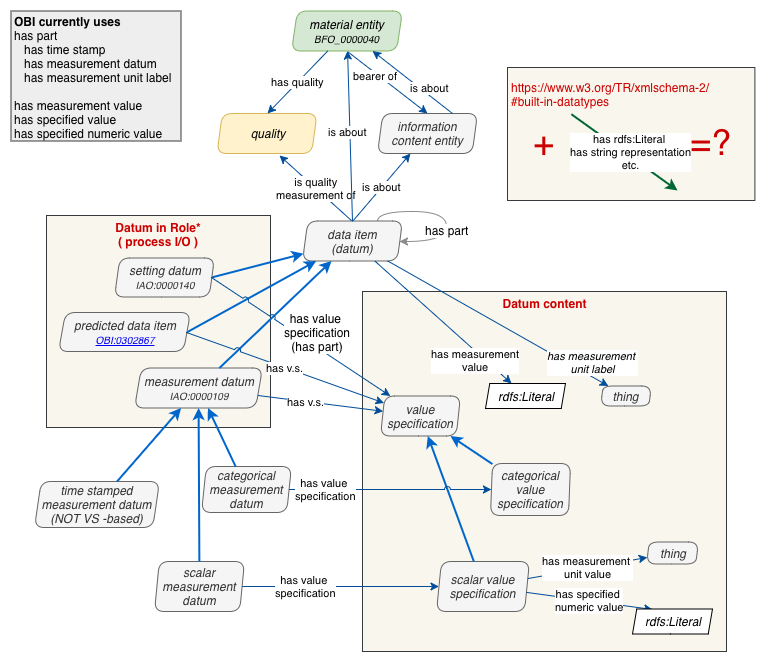
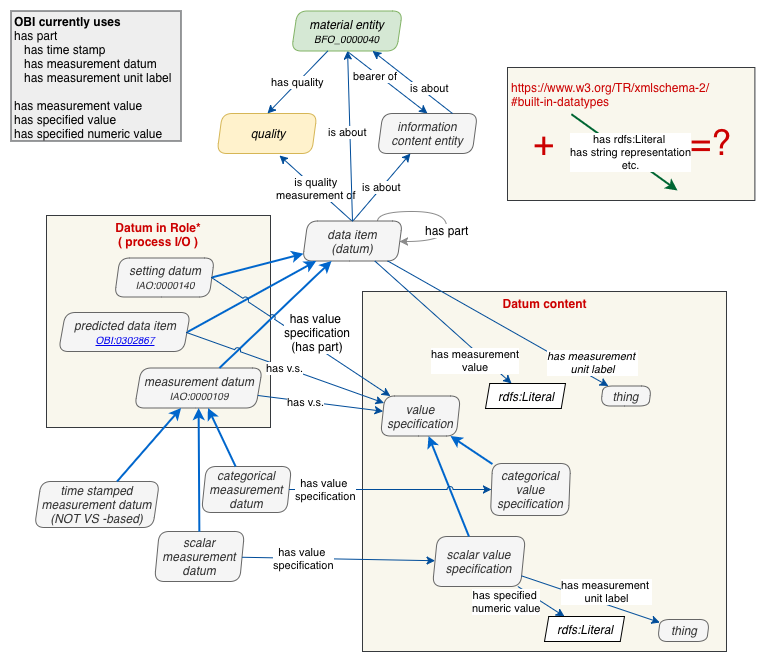
edits

diff --git a/_pages/docs/data-properties.md b/_pages/docs/data-properties.md
@@ -12,51 +12,55 @@ Diagrammed on the left side are typical examples of field data related to a rese
 
 <img align="right" src="/assets/images/docs/data_raw.png">
 
-A given datum value from the left may match one of four scenarios, the first two involving a single data property, and the latter two involving a multi-component "value specification" representation:
+A given datum value from the left may match one of four scenarios, the first two involving a data properties directly, and the latter two involving a multi-component "value specification" representation as described below.
 
-#### OWL RDF/XML datatype compatible
+### OWL datum - data property compatible
 
-OBI can generally express rdf/xml datatype values associated with ICE enties using a triple in the form "[ICE] `has xsd:Literal value` [value]".  This is suited to unit-less quantities, and covers common OWL-compatible [XML datatype schema](https://www.w3.org/TR/xmlschema-2/#built-in-datatypes) options, which can be further divided into:
+OBI can attach a number of [`OWL-compatible RDF/XML datatype`](https://www.w3.org/2007/OWL/wiki/DatatypeRescue) values directly to `atomic` ICE datums using a `has xsd:Literal value` data property or one of its sub-properties, as described below. (Representation of [`rational`](https://www.w3.org/2007/OWL/wiki/OWL_Rational) numbers is a bit more tricky.)
 
-- `has owl:real value` for a datum whose textual content represents a number that is unit-less.  Has owl:real range.
-   - `has xsd:decimal value` subclass for unit-less decimal values.
-   - `has xsd:integer value` subclass for counts and other unit-less integers.
+#### Scalar datum
 
+- `has xsd:float value` data property for storing floating point decimal values.  Has xsd:float range.
+- `has xsd:decimal value` data property for storing decimal values.  Has xsd:decimal range.
+  - `has xsd:integer value` data property for storing counts and other integers, e.g. a pH measurement.  Has xsd:integer range.
 
-- `has xsd:anyURI value` for a datum which contains a URI pointing to a document or other type of resource file.  Has xsd:anyURI range.  Example: an ICE [`analytical cytology data file`](http://purl.obolibrary.org/obo/OBI_0000210) specification ["https://onlinelibrary.wiley.com/doi/epdf/10.1002/cyto.990110303"](https://onlinelibrary.wiley.com/doi/epdf/10.1002/cyto.990110303)
+- `has xsd:dateTime value` or `has xsd:dateTimeStamp value` (includes time zone)for a datum containing a xsd:dateTime formatted date or time. Has xsd:dateTime or xsd:dateTimeStamp range, respectively. Examples of use are in the [`Time stamped data`](/docs/time-stamped-data/) section
 
-- `has xsd:dateTime value` for a datum containing a xsd:dateTime formatted date or time. Has xsd:dateTime range.
-- Similarly, a `has xsd:dateTimeStamp value` for a date or time that includes a time zone.
+If a numeric or datetime value needs a unit associated with it (e.g. metre, kilogram, hour, minute) the [`has measurement unit label`(http://purl.obolibrary.org/obo/IAO_0000039) object property can be used to point to a unit entity.  For example, the strings "20g", "20 grams", and "0.02kg" may differ by string comparison, but can be translated into identical value + unit atomic components: a decimal 20.0 and a "gram" mass unit.
+
+#### Boolean datum
 
 - `has xsd:boolean value` for a datum which is represented as a yes/no or true/false value. Has xsd:boolean range.
 
-#### String representation compatible 
+#### String (symbol????) datum
 
-A datum value that has linguistically or computationally coded textual content can be indicated by OBI's `has xsd:string representation` data property which has a xsd:string range.  It can hold "undigested" data, say, in preparation for parsing by SPARQL etc. into more atomic components.  Other object relations may be provided to enable interpretation of string representation datum values. It can store values that may or may not fit directly on a numeric or categorical scale, as well as linguistic content (words, phrases, sentences with optional OWL language facet.  It may be an identifier which can be compared with other values for a match.  For example:
+- `has xsd:string value` for a textual datum that does not fit on a categorical scale but which can be compared (like a token) to other strings.  Example: The (fictitious) [Social Security Number](http://purl.obolibrary.org/obo/NCIT_C25686) "000-11-2222", an identifier which is not really on a scale or a categorical value.  It is essentially atomic; it serves a data matchmaking role.
 
-- The address "16500 Mullholland Dr., Los Angeles, CA, USA" needs parsing to extract house/apartment number, street, city, country, etc.
+#### Other resource datum
 
-- The fictitious Social Security Number "000-11-2222", an identifier which is not really on a scale or a categorical value. It is essentially atomic; it serves a data matchmaking role.
+- `has xsd:anyURI value` for a datum which contains a URI pointing to a document or other type of resource file.  Has xsd:anyURI range.  Example: an ICE [`analytical cytology data file`](http://purl.obolibrary.org/obo/OBI_0000210) specification ["https://onlinelibrary.wiley.com/doi/epdf/10.1002/cyto.990110303"](https://onlinelibrary.wiley.com/doi/epdf/10.1002/cyto.990110303)
 
-- "20g" may be held as a string representation en route to becoming a value specification.
+### String representation compatible
 
-Such data could technically be stored as annotations but the potential for referencing it as input our output of process axioms is then lost.
+A datum can have a linguistically or computationally coded textual value using OBI's `has xsd:string representation` data property.  A string representation value can hold "undigested" data, say, in preparation for parsing by SPARQL etc. into more atomic components.  Other object relations may be provided to enable interpretation of such values. It can store values that may or may not fit directly on a numeric or categorical scale, as well as linguistic content (words, phrases, sentences with an optional OWL language facet.  For example:
 
-#### Scalar Value specification compatible
+- The address "16500 Mullholland Dr., Los Angeles, CA, USA" can be attached to a [`street address`](http://purl.obolibrary.org/obo/NCIT_C25690) datum. The value needs parsing to extract house/apartment number, street, city, country, etc.
 
-A value that can be placed on a numeric scale which includes a unit. In this case a [`scalar value specification`](http://purl.obolibrary.org/obo/OBI_0001931) instance can be set up for it (see [docs/data-vs](docs/data-vs)). For example:
+- "20g" may be held as a string representation en route to becoming a scalar value + unit data property pair or a [`scalar value specification`](/docs/data-vs/).
 
-- The strings "20g", "20 grams", and "0.02kg" may differ by string comparison, but can be translated into an equivalent or identical RDF triple store value + unit using OWL ontology vocabulary. All variants can be translated into atomic components: a decimal 20.0 and a "gram" mass unit. 
+Such data could technically be stored as annotations but the potential for referencing it as input our output of process axioms (e.g. in natural language processing) is then lost.
 
-- A duration of 20 days.
+### Scalar value specification compatible
 
-#### Categorical value specification compatible
+OBI implementers may prefer to isolate the value data collected from assays from the `measurement datum` representation level of assay output.  OBI provides a `has value specification` object property that points to a [`scalar value specification`](http://purl.obolibrary.org/obo/OBI_0001931) which can take on the same value and measurement unit label data and object properties as described in the Scalar datum section above.  See [docs/data-vs](docs/data-vs) for more details.
 
-A [`categorical value specification`](http://purl.obolibrary.org/obo/OBI_0001930) describes a categorical variable like color, which can match selections from a string list of terms, or from a branch of ontology terms (e.g. terms from a standardized color wheel). (Inputted synonyms can be handled too, e.g. "sienna, sepia, umber, terra cotta" -> "brown")
+### Categorical value specification compatible
 
-## Data Property Implementation Approaches
+A [`categorical value specification`](http://purl.obolibrary.org/obo/OBI_0001930) describes a categorical variable like color, which can match selections from a string list of terms, or from a branch of ontology terms (e.g. terms from a standardized color wheel). (Inputted synonyms can be handled too, e.g. "sienna, sepia, umber, terra cotta" -> "brown").  See [docs/data-vs](docs/data-vs) for more details.
 
-Before we detail the use of `has rdfs:Literal value` etc. and `has specified value` data properties, we will discuss OBI's philosophy about data properties in general. 
+## Data Property Implementation Approach
+
+Before we detail the use of `has rdfs:Literal value` etc. data properties, we will discuss OBI's philosophy about data properties in general. 
 
 <img align="right" src="/assets/images/docs/data_lee_data_property_age.png">
 
@@ -74,19 +78,30 @@ The label of the data property tells humans in hopefully plain language what the
 
 In fact there are many kinds of [`ages`](http://purl.obolibrary.org/obo/OBI_0001167) in the biomedical and biological research realm; a number of related datums from OBI are listed here. Rather than creating a litany of data properties, OBI has chosen an alternative approach - a data modelling vocabulary that focuses on describing a core entity's role, quality, information content and other descriptive components rather than directly connecting semantically opaque data properties. This is not to say non-OBI `data properties` are forbidden in application ontologies - but going through the exercise of defining them in terms of a generic BFO/OBI/OBO Foundry set of terms may help anticipate data sharing issues.
 
-Below is an example focusing on providing values for information content entities typically connected to a person instance.
+OBI allows an age datum instance's value and unit to be represented by way of `has xsd:decimal value` and `has measurement unit label`:
+
+<img src="/assets/images/docs/data_lee_object_property_age_unit.png">
+
+Stating units is especially important for enabling data exchange unambiguously - units associated with a data property that may work internally to a system, but are likely to fail when exchanging information with other systems. OBI provides a [`has measurement unit label`](http://purl.obolibrary.org/obo/IAO_0000039) object property for this reason.  In the diagram below, other types of age measurements are described. The need for units is evident:
+
+<img src="/assets/images/docs/data_lee_object_property_ages.png">
+
+To summarize, rather than establish a `has age` data property, OBI expresses that [`age`](http://purl.obolibrary.org/obo/PATO_0000011) is a quality of our entity, and then focuses on defining the semantics of it and its subclasses.  This approach reduces the amount of language needed to describe entities, at the cost of a bit more structure. *Most importantly it enables entities to be the focus of semantic elaboration (axioms) rather than being surrounded by opaque relations.* The `aboutness` details have the extra benefit of facilitating appropriate data exchange between ontology-driven systems.  By specifying that a string field is about a first name or a last name, maiden name, full name, SIN number, postal code, etc. this 'aboutness' information can guide the merging and federated querying of triple store graphs.   
+
+Below is another example focusing on providing values for information content entities typically connected to a person instance.
 
 <img src="/assets/images/docs/data_lee_has_specified_value.png">
 
-OBI uses data properties in a limited way, via `has [xml/rdf/owl datatype] value`, [`has specified value`](http://purl.obolibrary.org/obo/OBI_0002135), and [`has specified numeric value`](http://purl.obolibrary.org/obo/OBI_0001937), and relies on the subject of the relation to provide `aboutness` semantics.  This approach reduces the amount of language needed to describe entities, at the cost of a bit more structure. *Most importantly it enables entities to be the focus of semantic elaboration (axioms) rather than being surrounded by opaque relations.* The `aboutness` details have the extra benefit of facilitating appropriate data exchange between ontology-driven systems.  By specifying that a string field is about a first name or a last name, maiden name, full name, SIN number, postal code, etc. this 'aboutness' information can guide the merging and federated querying of triple store graphs.
+And here is a pH measurement example, showing the datum as an output of a process, and also with a unit (which some may argue is optional because there is only one unit possible):
+\
+<img src="/assets/images/docs/data_ph_object_property.png">
+
 
 ## Missing values
 
 Data sources may mark missing values in a variety of ways - by an empty string, or a hyphen instead of a number or date for example.  Instance subject-verb-object triples don't have an equivalent way to express this. However there are a few ways one could indicate missing values.
 
-- An entity's object property lacks a `has specified value` relation where one is expected.
-
-- For an instance value being described by a `categorical value specification` (CVS) class, if that value matches the CVS class's expressed  `specifies value of` target, then no choice has been made, and no information is carried.
+- A datum instance lacks a `has rdfs:Literal value` data property or subproperty where one is indicated in the datum class.
 
 ## Suitable object properties
 
@@ -100,26 +115,18 @@ It is straightforward to see a material entity connected to a pertinent quality 
 
 One can also use cardinality to specify more than one data property is allowed or required. However, some OWL reasoning profiles don't work with cardinality.
 
-Now, back to the age example, it seems we could supply various age measurements like so:
+## Data property limitations
 
-<img src="/assets/images/docs/data_lee_object_property_ages.png">
-
-To summarize, rather than establish a `has age` data property, OBI expresses that [`age`](http://purl.obolibrary.org/obo/PATO_0000011) is a quality of our entity, and then focuses on defining the semantics of it and its subclasses.  
-
-However, there are some limitations of data properties that this diagram and the one below expose.
+Besides the need to specify measurement units, there are a few other limitations of coupling data properties too tightly to the entities they describe.
 
 <img align="right" src="/assets/images/docs/data_lee_data_properties.png">
 
-- A data property can't include a unit directly, so a second data property is needed for that.  Is Lee a 12 year old youth, or a 12 month old toddler?  We need the **unit of measure**, in minutes, days, months, or years.  In the example diagram of Lee's data properties to right, is the `has weight` decimal value given in kilos or grams? Is height in meters or centimetres? Without an explicit unit, assumptions are made about units associated with a data property that may work internally to a system, but are likely to fail when exchanging information with other systems.
+- A data property doesn't directly support a relevant time of measurement value.  For example, when was Lee's `has height` observed, and was it the same time as `has weight`, such that an accurate BMI can be calculated?  Admittedly, time differentiated data is rather complex to model in OWL. A pragmatic approach, if workable, is to only expose to an OWL reasoner data that doesn't need to be differentiated by time. In the BMI example, we could assume height and weight data properties are adequately close in time that derivative calculations are ok. OBI does offer annother approach detailed in the [`Time-stamped data`](/docs/time-stamped-datums) section to describe n-dimensional points that include time.
 
-- A data property doesn't support a relevant time of measurement value.  For example, when was Lee's `has height` observed, and was it the same time as `has weight`, such that an accurate BMI can be calculated?  Admittedly, time differentiated data is rather complex to model in OWL. A pragmatic approach, if workable, is to only expose to an OWL reasoner data that doesn't need to be differentiated by time. In the BMI example, we could assume height and weight data properties are adequately close in time that derivative calculations are ok. OBI does offer annother approach detailed in the `Time-stamped data` section to describe n-dimensional points that include time.
+- A data property cannot directly specify the range of ontology term choices (which are classes or individuals) for a categorical value since data property ranges can only be drawn from xml/rdf data types. "Lee `has handedness` "http://purl.obolibrary.org/obo/PATO_0002201^^xsd:anyURI"" but the URI could point to anything on the internet. We can't express in OWL that the 'has handedness' data property URI range must fall within the class of PATO `handedness`. An object property is required for this reference.
 
-- A data property cannot directly specify the range of ontology term choices (which are classes or individuals) for a categorical value since data property ranges can only be drawn from xml/rdf data types. "Lee `has handedness` "http://purl.obolibrary.org/obo/PATO_0002201^^xsd:anyURI"" but the URI could point to anything on the internet. We can't express in OWL that the 'has handedness' data property URI range must fall within the class of PATO `handedness`.
+This doesn't provide the necessary structure for describing multi-dimensional datums - time-stamped observations, or geographic lat/long location for example. To meet these needs, one either needs to use a `composite datum` or one needs an additional `value specification` entity.
 
-- There is no direct way to indicate that an instance of paricular data property has a missing value since its object must have some value.  The data property as a whole could be omitted, and this may be sufficient for querying purposes.
+## Composite datum
 
-For a numeric one dimensional datum with a unit, that is, a datum that records a single value on a scale, it is possible to represent it directly using object and data properties.  Here an age datum has unit and value directly by way of `has measurement unit label` and `has xsd:decimal value`:
-
-<img align="right" src="/assets/images/docs/data_lee_object_property_age_unit.png">
-
-This doesn't provide the necessary structure for describing categorical and mulit-dimensional datums - time-stamped observations, or geographic lat/long location for example. To meet these needs, OBI has an additional `value specification` entity, as detailed in the next section.
+...

diff --git a/_pages/docs/data-intro.md b/_pages/docs/data-intro.md
@@ -7,11 +7,11 @@ sidebar:
   nav: "docs"
 ---
 
-One of OBI's missions, to model the logical structure of experimental assays, requires a close study of entity attributes, processes and their participants, and data being collected. Below we introduce the general framework for describing processes, datums used as process input or output, and data collection specifications. Some stakeholders are involved only in process modelling in order to document study design and/or protocol details as metadata; others are turning to OBI ontology to provide standardization of data collection and exchange; software developers will require knowledge in both these areas in order to provide the next generation of integration tools. We aim to provide analysis approaches and diagrams to satisfy these needs.
+One of OBI's missions, to model the logical structure of experimental assays, requires a close study of entity attributes, processes and their input/output participants, and data collection specifications.  Some stakeholders are involved only in process modelling in order to document study design and/or protocol details as metadata; others are turning to OBI ontology to provide standardization of data collection and exchange; software developers will require knowledge in both these areas in order to provide the next generation of integration tools. We aim to provide analysis approaches and diagrams to satisfy these needs.
 
 Aligning with [BFO](http://basic-formal-ontology.org), OBI divides references about study design and assay structure into roughly four domains - **[`material entities`](http://purl.obolibrary.org/obo/BFO_0000040)**, their observable **[`qualities`](http://purl.obolibrary.org/obo/BFO_0000019)**, **[`planned processes`](http://purl.obolibrary.org/obo/OBI_0000011)**, and **[`information artifacts`](http://purl.obolibrary.org/obo/IAO_0000030)**, which all show up in process and data modelling.
 
-The following documentation sections will focus on various parts needed to detail processes and their input and output data.  The diagram below shows how OBI expresses the statement "John's mass is 70kg" using triples, and the related material entity, process, datum, quality and value specification ontology components hovering in the background.  It shows the big picture - by tracing classes further up the inheritance hierarchy, we can see the impact on instance data. Details on each of these sections follow.
+The following documentation sections will focus on various parts needed to detail processes and their input and output data.  The diagram below shows how OBI expresses the statement "John's mass is 70kg" using object and data properties, and the related material entity, process, datum, quality and value specification ontology components hovering in the background.  It shows the big picture - by tracing classes further up the inheritance hierarchy, we can see the impact on instance data. Details on each of these sections follow.
 
 <img align="right" src="/assets/images/docs/data_john_mass_context.png">
 

diff --git a/_pages/docs/data-vs.md b/_pages/docs/data-vs.md
@@ -1,21 +1,13 @@
 ---
 layout: default
-title: ""
+title: "Value Specifications"
 permalink: /docs/data-vs/
 #toc: true
 sidebar:
    nav: "docs"
 ---
 
-# Value Specifications
-
-## Question: a `has xsd:Literal value` or `has measurement value` data property can be attached directly to an instance of a quality in the case of numeric measurements, and those qualities inherently come with `has measurement unit label` abstractly set to the base SI unit of quality dimension in question, so its easy to express "length of 2m", "weight of 50kg" that way.  What motivates us to use a value spec in this case?  The theoretical distinction exists between a datum as a process input/output that should only describe its aboutness; and a value specification that specifies the measurement value's form, seems to be blown with respect to qualities about SI dimensions. Allowing datums to be associated with units would need to be dropped to enforce the distinction.**
-
-## Another way to put it: M object relations and N data properties are available to describe both aboutness and content of a datum.  One choice is to move the content related ones out to a value specification.  But the semantics of these relations are distinct even if used together on a datum, so informatically this is the simplest way.  Subclasses of datum can constrain both aboutness and content form.**
-
-<hr>
-
-The inability of [`data properties`](/docs/data_properties/) to provide units, valid categorical choices or timestamped datums has led OBI to introduce a **[`value specification`](http://purl.obolibrary.org/obo/OBI_0001933){:target="_blank"}** (VS) class which more explicitly [`specifies value of`](http://purl.obolibrary.org/obo/OBI_0001927) a quality, datum, or postcomposed expression that it is about.  There are a few different kinds of `value specification` for capturing needed details of numeric, string and categorical variables, organized in OBI by their value datatypes:
+OBI has introduced a **[`value specification`](http://purl.obolibrary.org/obo/OBI_0001933){:target="_blank"}** (VS) class which more explicitly [`specifies value of`](http://purl.obolibrary.org/obo/OBI_0001927) a quality, datum, or postcomposed expression that it is about.  A value specification can be separated from a ICE by way of a "[ICE] `has value specification` [value specification]" object property.  There are a few different kinds of `value specification` for capturing needed details of numeric, string and categorical variables, which echo the combinations possible from direct connection of a datum to data properties:
 
 <img src="/assets/images/docs/data_value_specs.png">
 

diff --git a/_pages/docs/data-types.md b/_pages/docs/data-types.md
@@ -10,6 +10,6 @@ sidebar:
 
 [//]: # (OWL-driven reasoning and SPARQL querying can be applied to data represented in a graph to compare sets of specimen qualities or phenotypes like weight, length, life stage, handedness, and other dimensions.) 
 
-OWL inherits most of RDF's ability to specify XML string, numeric, datetime, and URI datatype values as data properties of an entity, and can compare data properties across entities (see [here](https://www.w3.org/TR/xmlschema-2/) and [here](https://www.w3.org/TR/swbp-xsch-datatypes){:target="_blank"}).  OWL can also be used to specify constraints on string value length and content, and can specify numeric bounds on numbers.  OBI currently focuses on reuse of RDF/XML datatypes to capture experimental data.  Those who need further functionality may find other datatype representations useful (e.g. [here](https://www.sciencedirect.com/science/article/pii/S0020025515005800){:target="_blank"}). 
+OWL inherits most of RDF's ability to specify XML string, numeric, datetime, and URI datatype values as data properties of an entity, and can compare data properties across entities (see [here](https://www.w3.org/TR/xmlschema-2/), [here](https://www.w3.org/2007/OWL/wiki/DatatypeRescue) and [here](https://www.w3.org/TR/swbp-xsch-datatypes){:target="_blank"}).  OWL can also be used to specify constraints on string value length and content, and can specify numeric bounds on numbers.  OBI currently focuses on reuse of RDF/XML datatypes to capture experimental data.  Those who need further functionality may find other datatype representations useful (e.g. [here](https://www.sciencedirect.com/science/article/pii/S0020025515005800){:target="_blank"}). 
 
 Here a handful of the primitive datatypes from RDF which are used in OWL are discussed. The possibility of [user defined datatypes](https://www.w3.org/TR/swbp-xsch-datatypes/#sec-userDefined){:target="_blank"} is avoided in favour of using enhanced value specifications to do the same work.  Some examples below are expressed directly in OBI, while others can be constructed in an application ontology that draws on OBI components.  Although OWL 2.0 isn't suitable for doing all types of validation, we have shown how value specifications can be enhanced with basic numeric range and string content restrictions.

diff --git a/_pages/docs/data-overview.md b/_pages/docs/data-overview.md
@@ -33,3 +33,9 @@ Then this would be a datum-data-property focused solution, which echoes previous
 And here is a `value specificaiton` friendly approach, which has only 1 `has string representation` linkage to `data item`; all other uses of `rdfs:Literal` find themselves inside new `value specification` subclasses.  This doesn't provide a `data item` rdfs:integer or rdfs:decimal shortcut to set a unitless number, or a string identifier, URI, etc.
 
 ![Datum + Value Specification ](/assets/images/docs/data_overview_vs.png)
+
+<hr/>
+
+### Notes about current OBI setup:
+
+#### A `has xsd:Literal value` or `has measurement value` data property can be attached directly to an instance of a quality in the case of numeric measurements, and those qualities inherently come with `has measurement unit label` abstractly set to the base SI unit of quality dimension in question, so its easy to express "length of 2m", "weight of 50kg" that way.  What motivates us to use a value spec in this case?  The theoretical distinction exists between a datum as a process input/output that should only describe its aboutness; and a value specification that specifies the measurement value's form, seems to be blown with respect to qualities about SI dimensions. The current feature of allowing datums to be associated with units would need to be dropped to enforce the distinction. But this seems to deny the fundamental semantics of what these SI datums have?!**

diff --git a/_pages/docs/data-categorical.md b/_pages/docs/data-categorical.md
@@ -35,6 +35,12 @@ The complete contextual view:
 
 <img src="/assets/images/docs/data_john_sex_context.png">
 
+## Missing values
+
+For an instance value being described by a `categorical value specification` (CVS) class, if that value matches the CVS class's expressed  `specifies value of` target, then no choice has been made, and no information is carried.
+
+## Categorical value specification choices as instances 
+
 In a different approach, an OBI example using categorical value specification focuses on describing a tumor grading standard [`histologic grade according to AJCC 7th edition`](http://purl.obolibrary.org/obo/OBI_0002205){:target="_blank"}.  Here the value specification class has individuals which are each interpreted as grades, and which could potentially be augmented with data properties that detail their assessment differentiae.  This approach is suited to cases where selections are not already established (and would not be in the future) as ontology classes situated within their own hierarchic context. 
 
 ## Complications - punning

diff --git a/_pages/docs/data-sets.md b/_pages/docs/data-sets.md
@@ -10,3 +10,4 @@ sidebar:
 
 A collection of datums of a given data type is called a [`data set`](http://purl.obolibrary.org/obo/IAO_0000100){:target="_blank"}. A numeric data set (like a numeric spreadsheet column) can have statistical calculations performed on it by using an RDF query language like [SPARQL](https://en.wikipedia.org/wiki/SPARQL).  The [`member of`](http://purl.obolibrary.org/obo/RO_0002350){:target="_blank"} relation can connect datum or value specification instances to such a data set.
 
+James Overton offers a detailed tutorial in how to convert a spreadsheet to an ontology-driven triple store graph.  He provides a script for [`mapping`](https://github.com/jamesaoverton/obo-tutorial/blob/master/docs/using-and-reusing.md#mapping-terms) spreadsheet cell contents to ontology equivalents, assuming you have set up sufficient ontology to steer the conversion.  As well, the next step is to convert this to a [`triple store graph`](https://github.com/jamesaoverton/obo-tutorial/blob/master/docs/processing-data.md).
